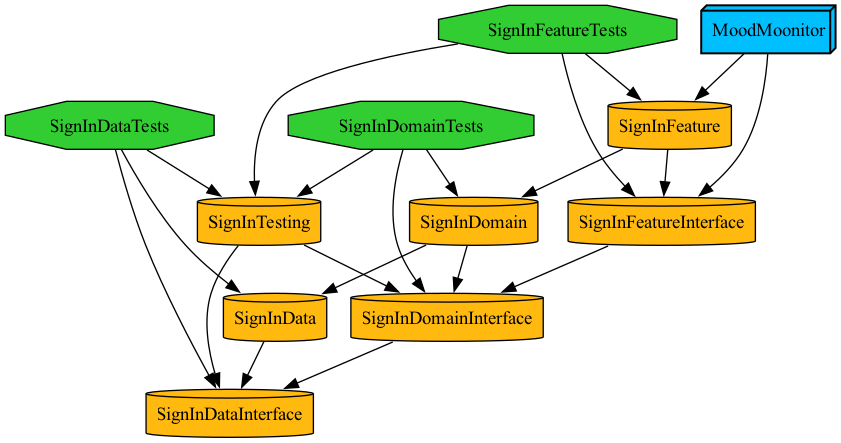
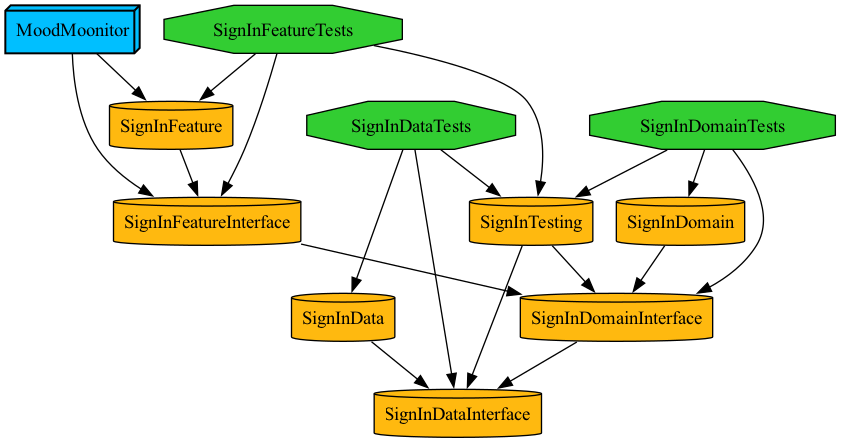
fixes dependencies

diff --git a/Modules/SignIn/Presentation/Project.swift b/Modules/SignIn/Presentation/Project.swift
@@ -4,9 +4,7 @@ import ProjectDescriptionHelpers
 let project = Project.module(
     name: "SignInFeature",
     bundleIdPrefix: "dev.bressam.mood-moonitor",
-    implementationDependencies: [
-        .project(target: "SignInDomain", path: "../Domain")
-    ],
+    implementationDependencies: [],
     interfaceDependencies: [
         .project(target: "SignInDomainInterface", path: "../Domain")
     ],

diff --git a/Modules/SignIn/Domain/Project.swift b/Modules/SignIn/Domain/Project.swift
@@ -4,9 +4,7 @@ import ProjectDescriptionHelpers
 let project = Project.module(
     name: "SignInDomain",
     bundleIdPrefix: "dev.bressam.mood-moonitor",
-    implementationDependencies: [
-        .project(target: "SignInData", path: "../Data")
-    ],
+    implementationDependencies: [],
     interfaceDependencies: [
         .project(target: "SignInDataInterface", path: "../Data")
     ],
